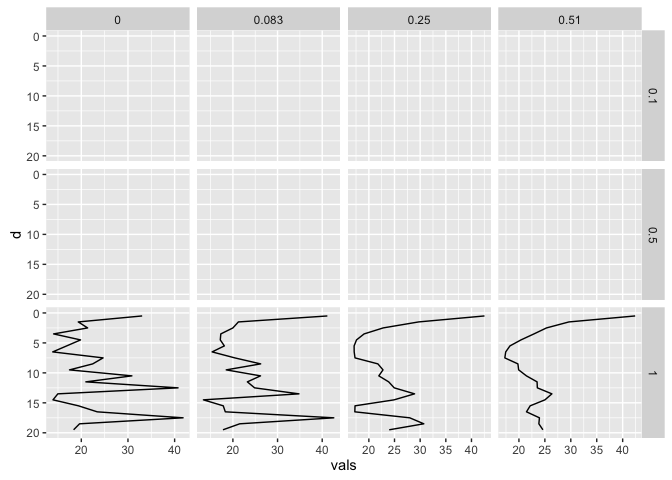
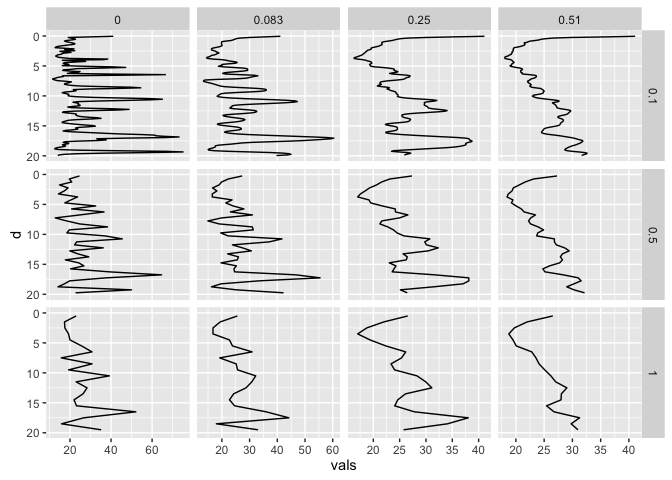
fix sample frequncy of fictional data (cellsize / 2)

diff --git a/README.md b/README.md
@@ -54,7 +54,7 @@ Thus we can use our deformation model to simulate the effect of core barrel widt
 ``` r
 # generate data at resolution cellsize/2 (200 samples for 20 cm). smooth random normal data
 set.seed(2500)
-original_data <- data.frame(d0=seq(0, 20, cellsize), vals=rlnorm(20/cellsize+1))
+original_data <- data.frame(d0=seq(0, 20, cellsize/2), vals=rlnorm(20/cellsize*2+1))
 original_data$vals <- 1.5 ^ original_data$vals * 10
 smoothing = 10
 for(s in 1:smoothing) {
@@ -265,8 +265,6 @@ sliced <- all %>%
 ggplot(sliced, aes(y=d, x=vals)) + geom_path() + scale_y_reverse() + 
   facet_grid(slicesize ~ coeff, scales="free_x")
 ```
-
-    ## Warning: Removed 960 rows containing missing values (geom_path).
 
 ![](README_files/figure-markdown_github/unnamed-chunk-7-1.png)
 
